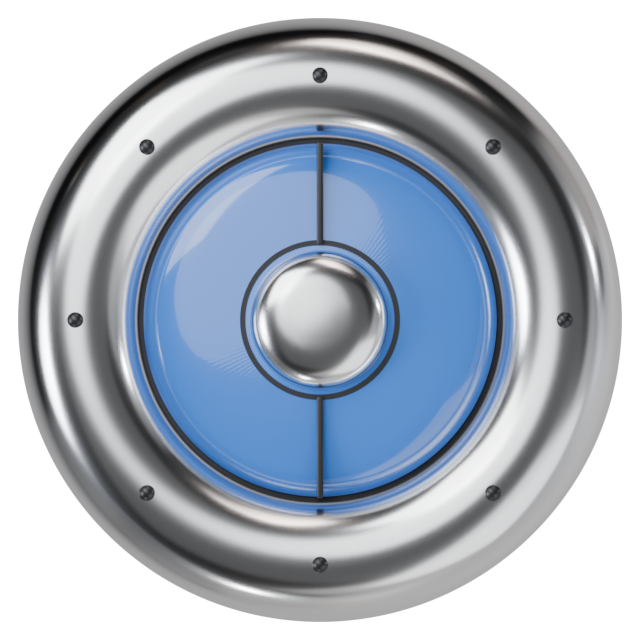
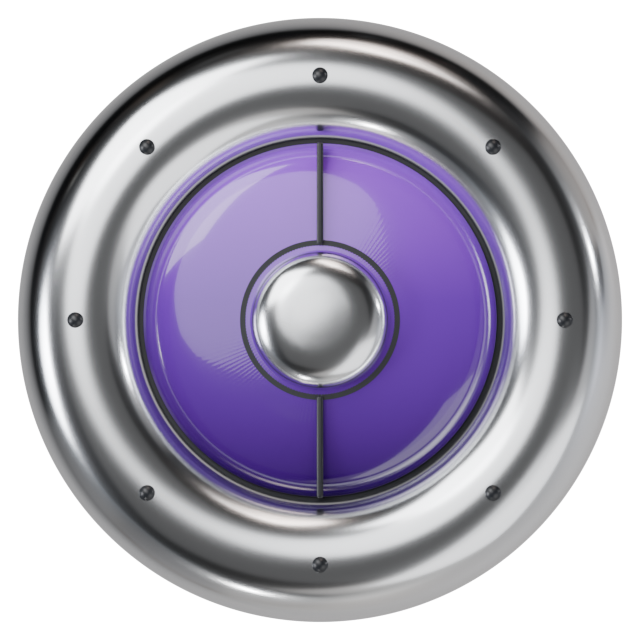
Molette et rail en dégradé violet, tirette chromée assortie
- disque de la molette re-rendu en dégradé violet (comme le poisson)
- bande de progression du rail en dégradé violet
- tirette lisse en chrome bombé avec trait violet, à la place des nervures

Changed region(s): [[0.1875, 0.1875, 0.8125, 0.8125]]

diff --git a/index.html b/index.html
@@ -9,7 +9,7 @@
   <link rel="preconnect" href="https://fonts.googleapis.com" />
   <link rel="preconnect" href="https://fonts.gstatic.com" crossorigin />
   <link href="https://fonts.googleapis.com/css2?family=Orbitron:wght@500;700&family=VT323&display=swap" rel="stylesheet" />
-  <link rel="stylesheet" href="styles.css?v=14" />
+  <link rel="stylesheet" href="styles.css?v=15" />
   <link rel="preload" as="image" href="assets/hw/power-on-frame.png" />
   <link rel="preload" as="image" href="assets/hw/power-off-frame.png" />
   <script>document.documentElement.classList.add("js");</script>
@@ -370,6 +370,6 @@
     </div>
   </div>
 </div>
-<script src="main.js?v=14"></script>
+<script src="main.js?v=15"></script>
 </body>
 </html>

diff --git a/styles.css b/styles.css
@@ -593,3 +593,11 @@ a:active > .rbtn svg, button.rbtn:active svg, [aria-current="page"] > .rbtn svg,
 @media (max-width: 760px) {
   .pos-track { --tw: 54px; height: 50px; }
 }
+
+/* Rail : bande lumineuse en dégradé violet (comme le poisson) */
+.pos-track::before {
+  background:
+    linear-gradient(90deg, #3a0f8a, #7a2be0 55%, #c47bff) 0 50% / calc(var(--p) * (100% - var(--tw)) + var(--tw) / 2) 3px no-repeat,
+    linear-gradient(180deg, #050607, #1d2126 70%, #2c3239);
+}
+.pos-track { --th: calc(var(--tw) * .62); }

diff --git a/design/blender/parts.py b/design/blender/parts.py
@@ -153,6 +153,30 @@ def mat(name, color=(0.8, 0.82, 0.85), metal=1.0, rough=0.12, aniso=0.0, radial=
     return m
 
 
+def violet_gradient():
+    m = bpy.data.materials.get("violet_grad")
+    if m:
+        return m
+    m = mat("violet_grad", (0.4, 0.1, 0.9), 0.0, 0.14, coat=1.0)
+    nt = m.node_tree
+    p = nt.nodes["Principled BSDF"]
+    tc = nt.nodes.new("ShaderNodeTexCoord")
+    sep = nt.nodes.new("ShaderNodeSeparateXYZ")
+    mr = nt.nodes.new("ShaderNodeMapRange")
+    mr.inputs["From Min"].default_value = -0.6
+    mr.inputs["From Max"].default_value = 0.6
+    ramp = nt.nodes.new("ShaderNodeValToRGB")
+    ramp.color_ramp.elements[0].color = (0.035, 0.008, 0.12, 1)   # bas : violet nuit
+    ramp.color_ramp.elements[1].color = (0.42, 0.09, 1.0, 1)      # haut : violet vif
+    mid = ramp.color_ramp.elements.new(0.55)
+    mid.color = (0.17, 0.03, 0.5, 1)
+    nt.links.new(tc.outputs["Object"], sep.inputs["Vector"])
+    nt.links.new(sep.outputs["Y"], mr.inputs["Value"])
+    nt.links.new(mr.outputs["Result"], ramp.inputs["Fac"])
+    nt.links.new(ramp.outputs["Color"], p.inputs["Base Color"])
+    return m
+
+
 CHROME = lambda: mat("chrome", (0.86, 0.88, 0.91), 1.0, 0.2)
 SATIN = lambda: mat("satin", (0.78, 0.8, 0.84), 1.0, 0.3)
 BRUSHED_RADIAL = lambda: mat("brushed_radial", (0.85, 0.87, 0.9), 1.0, 0.22, aniso=0.85, radial=True)
@@ -246,7 +270,7 @@ def part_jog():
     for i in range(8):
         a = i * math.pi / 4
         sphere((0.81 * math.cos(a), 0.81 * math.sin(a), 0.262), 0.032, DARK())
-    lathe("disc", [(0, 0.205), (0.3, 0.2), (0.48, 0.186), (0.56, 0.16), (0.585, 0.11)], BLUE())
+    lathe("disc", [(0, 0.205), (0.3, 0.2), (0.48, 0.186), (0.56, 0.16), (0.585, 0.11)], violet_gradient())
     rounded_box("split_top", 0.022, 0.34, 0.06, 0.008, DARK(), z=0.19).location.y = 0.42
     rounded_box("split_bot", 0.022, 0.34, 0.06, 0.008, DARK(), z=0.19).location.y = -0.42
     lathe("cap_groove", [(0.23, 0.2), (0.265, 0.2)], DARK())
@@ -275,20 +299,13 @@ def part_power(on):
 
 
 def part_fader():
-    """Tirette de fader : corps chromé, dessus à nervures, trait violet au centre."""
+    """Tirette de fader : bouton chromé bombé sur sa semelle, trait violet au centre."""
     clear(); key_light(); camera_top(2.4, 360, 240)
-    rounded_box("body", 2.0, 1.22, 0.34, 0.14, SATIN(), z=0.0)
-    rounded_box("top", 1.82, 1.04, 0.12, 0.06, DARK(), z=0.16)
-    for i in range(-3, 4):
-        if i == 0:
-            continue
-        bpy.ops.mesh.primitive_cylinder_add(radius=0.05, depth=0.92, location=(i * 0.24, 0, 0.22), vertices=32)
-        ob = bpy.context.active_object
-        ob.rotation_euler.x = math.radians(90)
-        bpy.ops.object.shade_smooth()
-        ob.data.materials.append(CHROME())
-    violet = mat("violet_line", (0.45, 0.12, 0.9), 0.0, 0.3, emit=(0.55, 0.2, 1.0), emit_strength=0.9)
-    rounded_box("line", 0.07, 0.96, 0.08, 0.02, violet, z=0.23)
+    rounded_box("base", 2.0, 1.24, 0.2, 0.12, SATIN(), z=0.0)
+    rounded_box("groove", 1.9, 1.14, 0.2, 0.1, DARK(), z=0.02)
+    rounded_box("cap", 1.8, 1.04, 0.36, 0.3, CHROME(), z=0.09)
+    line = mat("violet_line", (0.45, 0.12, 0.9), 0.0, 0.3, emit=(0.55, 0.2, 1.0), emit_strength=0.9)
+    rounded_box("line", 0.07, 0.62, 0.05, 0.02, line, z=0.27)
     render("fader")
 
 
